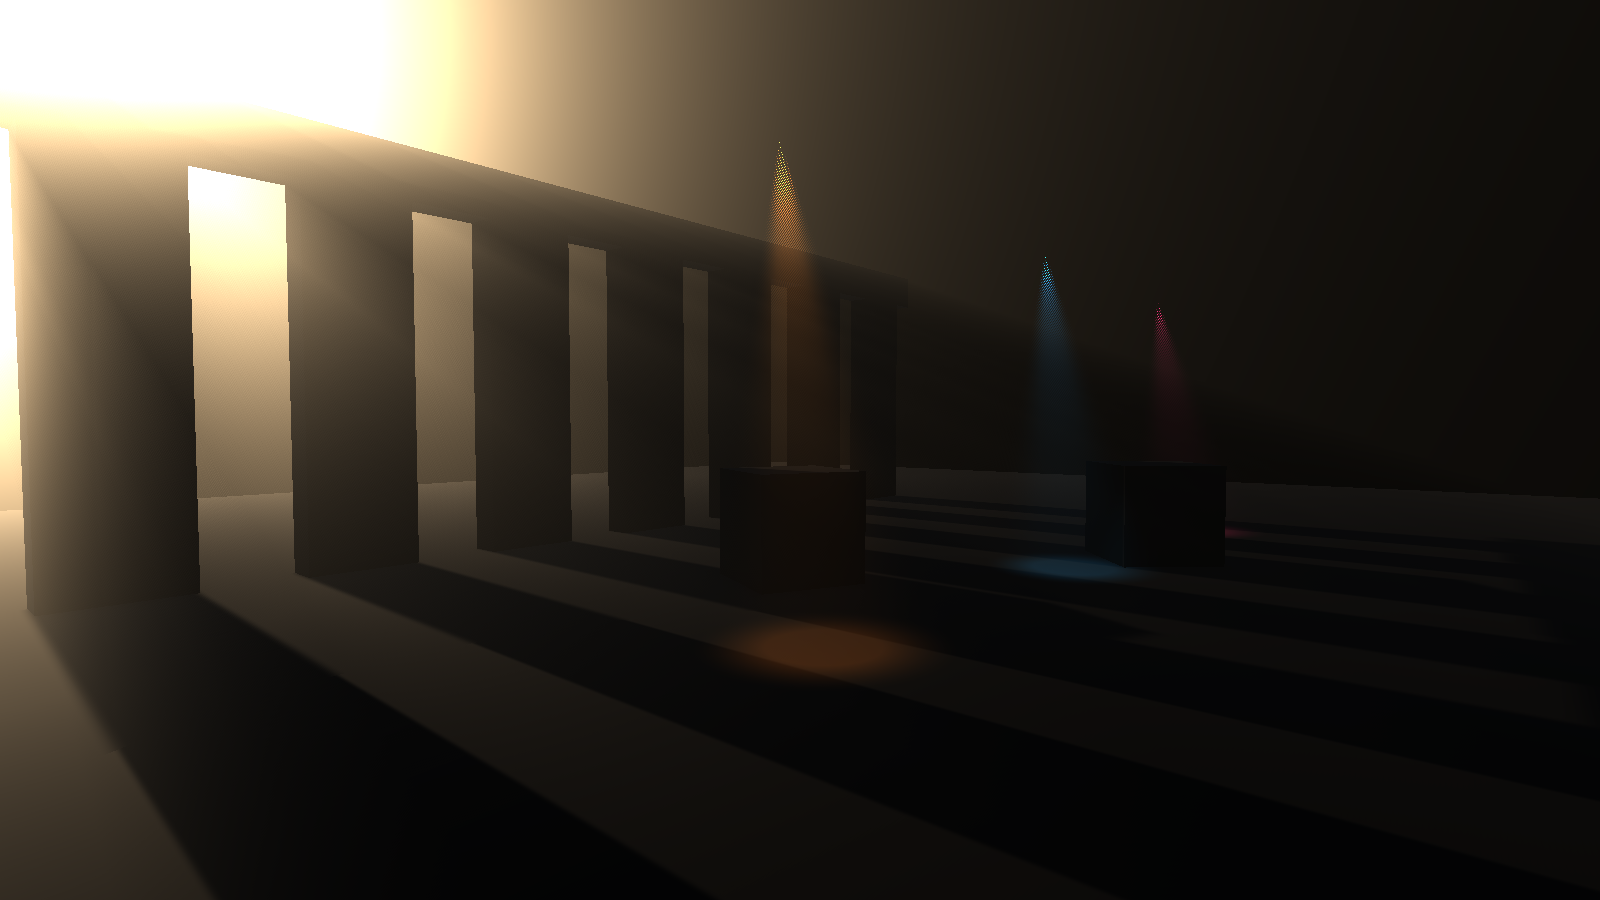
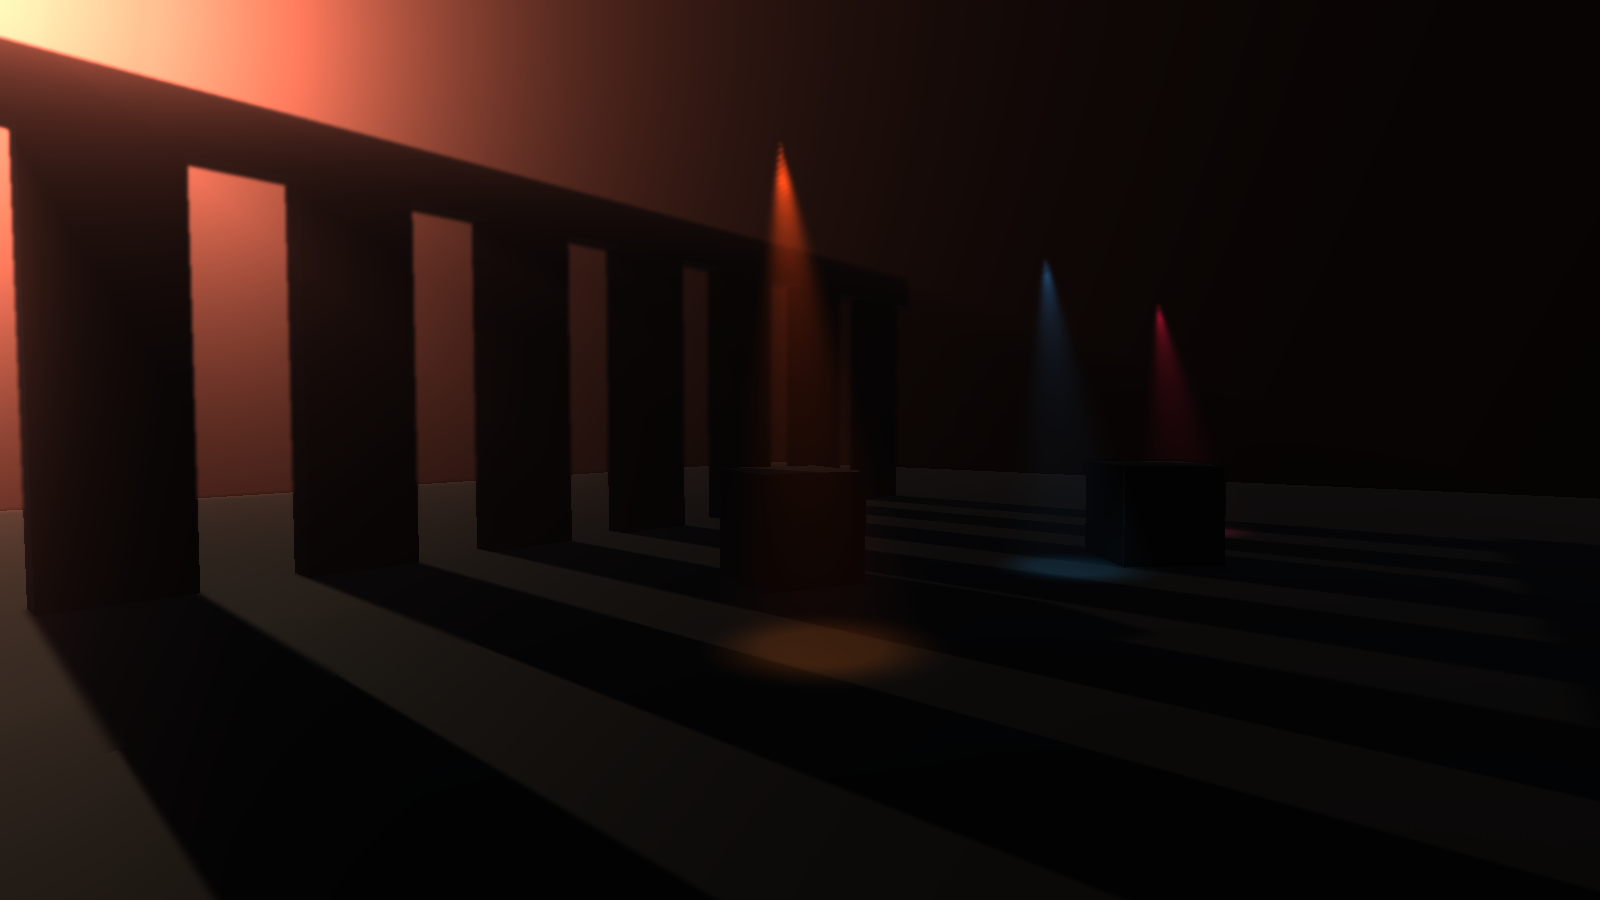
Add a blur pass so the raymarch dither is gone by default
The raymarch jitters each pixel's first sample to trade banding for noise,
but nothing downstream resolved that noise, so the interleaved gradient
pattern showed up directly - worst on spot cones, where a step can be wider
than the whole cone profile near the bulb.

Adds a separable gaussian over the volumetric buffer (9 taps folded into 5
bilinear fetches, H then V), exposed as Blur Iterations on the renderer
feature: 1 by default, 0 restores the previous cheaper behaviour. Widening
repeats the kernel rather than stretching its taps, which would undersample
the kernel and alias the dither into a coarser pattern.

Also samples _BlitTexture through SAMPLE_TEXTURE2D_X in the composite, which
would not have compiled under single-pass instanced stereo, and folds the
composite and blur blits into one helper.

diff --git a/Runtime/VolumetricLightingFeature.cs b/Runtime/VolumetricLightingFeature.cs
@@ -24,6 +24,11 @@ namespace VolumetricLighting
             [Tooltip("Lower = sharper but more expensive. Quarter is the recommended mobile default.")]
             public Resolution resolution = Resolution.Half;
 
+            [Tooltip("Separable gaussian passes over the volumetric buffer before compositing. " +
+                     "This is what removes the raymarch dither: 1 is enough in most scenes, 2 for very " +
+                     "bright spot cones. 0 skips the blur entirely - cheapest, and the dither comes back.")]
+            [Range(0, 3)] public int blurIterations = 1;
+
             [Tooltip("Auto-resolved if left empty.")]
             public Shader shader;
         }
@@ -88,6 +93,12 @@ namespace VolumetricLighting
             private static readonly int SpotPosID      = Shader.PropertyToID("_VL_SpotPos");
             private static readonly int SpotDirID      = Shader.PropertyToID("_VL_SpotDir");
             private static readonly int SpotColorID    = Shader.PropertyToID("_VL_SpotColor");
+            private static readonly int BlurTexelID    = Shader.PropertyToID("_VL_BlurTexel");
+
+            private const int PassRaymarch  = 0;
+            private const int PassComposite = 1;
+            private const int PassBlurH     = 2;
+            private const int PassBlurV     = 3;
 
             private const int MaxSpots = VolumetricSpotLight.MaxActive;
             private readonly Vector4[] _spotPos   = new Vector4[MaxSpots];
@@ -220,12 +231,11 @@ namespace VolumetricLighting
 
                 TextureHandle cameraColor = resourceData.cameraColor;
 
-                // Pass 1 : raymarch into off-screen RT.
+                // Raymarch into the off-screen RT.
                 using (var builder = renderGraph.AddRasterRenderPass<PassData>("Volumetric Raymarch", out var data))
                 {
-                    data.material   = _material;
-                    data.passIndex  = 0;
-                    data.volumetric = volTex;
+                    data.material  = _material;
+                    data.passIndex = PassRaymarch;
 
                     builder.SetRenderAttachment(volTex, 0, AccessFlags.Write);
                     builder.AllowPassCulling(false);
@@ -237,15 +247,40 @@ namespace VolumetricLighting
                     });
                 }
 
-                // Pass 2 : additive composite directly into camera color (no extra fullscreen copy).
-                using (var builder = renderGraph.AddRasterRenderPass<PassData>("Volumetric Composite", out var data))
+                // Separable gaussian: the only thing standing between the jittered raymarch
+                // and visible dither, since there is no temporal filter. Widening happens by
+                // repeating the fixed one-texel kernel - stretching its taps instead would
+                // undersample the kernel itself and alias the dither into a coarser pattern.
+                if (_settings.blurIterations > 0)
+                {
+                    _material.SetVector(BlurTexelID, new Vector4(1f / w, 1f / h, 0f, 0f));
+
+                    var blurDesc = volDesc;
+                    blurDesc.name = "_VL_VolumetricBlur";
+                    blurDesc.clearBuffer = false;
+                    TextureHandle blurTex = renderGraph.CreateTexture(blurDesc);
+
+                    for (int i = 0; i < _settings.blurIterations; i++)
+                    {
+                        AddBlitPass(renderGraph, "Volumetric Blur H", volTex,  blurTex, PassBlurH);
+                        AddBlitPass(renderGraph, "Volumetric Blur V", blurTex, volTex,  PassBlurV);
+                    }
+                }
+
+                // Additive composite directly into camera color (no extra fullscreen copy).
+                AddBlitPass(renderGraph, "Volumetric Composite", volTex, cameraColor, PassComposite);
+            }
+
+            private void AddBlitPass(RenderGraph renderGraph, string name, TextureHandle source, TextureHandle target, int passIndex)
+            {
+                using (var builder = renderGraph.AddRasterRenderPass<PassData>(name, out var data))
                 {
                     data.material   = _material;
-                    data.passIndex  = 1;
-                    data.volumetric = volTex;
+                    data.passIndex  = passIndex;
+                    data.volumetric = source;
 
-                    builder.UseTexture(volTex, AccessFlags.Read);
-                    builder.SetRenderAttachment(cameraColor, 0, AccessFlags.Write);
+                    builder.UseTexture(source, AccessFlags.Read);
+                    builder.SetRenderAttachment(target, 0, AccessFlags.Write);
                     builder.AllowPassCulling(false);
 
                     builder.SetRenderFunc((PassData d, RasterGraphContext ctx) =>

diff --git a/README.md b/README.md
@@ -10,12 +10,24 @@ through the air.
 
 <p align="center">
   <img src="Documentation/images/shafts-angle.png" width="49%" alt="Shafts seen from inside the colonnade">
-  <img src="Documentation/images/spot-lights.png" width="49%" alt="Volumetric spot lights at night, sun disabled">
+  <img src="Documentation/images/denoise-on.png" width="49%" alt="Volumetric spot lights at night, sun disabled">
 </p>
 
 <sub>The demo scene (`Samples/Demo.unity`) at 1600×900, Full resolution,
-64 raymarch steps. Right: the same scene with the sun turned off — only the
-three `VolumetricSpotLight` cones remain.</sub>
+128 raymarch steps, 1 blur iteration. Right: the same scene with the sun
+turned off — only the three `VolumetricSpotLight` cones remain.</sub>
+
+## Blur off / on
+
+<p align="center">
+  <img src="Documentation/images/denoise-off.png" width="49%" alt="Blur Iterations 0 - the raymarch jitter shows as dither">
+  <img src="Documentation/images/denoise-on.png" width="49%" alt="Blur Iterations 1 - smooth cones">
+</p>
+
+<sub>`Blur Iterations` 0 and 1 on the renderer feature. The raymarch offsets each
+pixel's samples by a noise pattern to trade banding for noise; without a filter
+that noise is what you see. One separable gaussian over the volumetric buffer
+resolves it — see [The dither, and how to get rid of it](#the-dither-and-how-to-get-rid-of-it).</sub>
 
 ## Same frame, effect off / on
 
@@ -68,8 +80,7 @@ renderer features live on the render pipeline asset rather than in the scene.
 | `Spot Cull Distance` | Spot lights further than this from the camera are skipped on the CPU. `0` = no culling. |
 
 The demo profile (`Samples/VolumetricLightingProfile.asset`) is a reasonable
-desktop starting point: intensity 1.5, 64 steps, 45 m, scattering 0.72,
-density 3.5, spot intensity 6.
+desktop starting point.
 
 ## Renderer feature settings
 
@@ -77,11 +88,20 @@ density 3.5, spot intensity 6.
 |---|---|
 | `Injection Point` | When the pass runs. Default `BeforeRenderingTransparents`, so transparents composite over the fog. |
 | `Resolution` | Raymarch buffer size: `Full`, `Half`, `Quarter`. **Quarter** is the mobile default, `Full` for stills and desktop. |
+| `Blur Iterations` | Separable gaussian passes over the volumetric buffer before compositing. **1** removes the raymarch dither and is the default; **2** for very bright spot cones; **0** skips the blur entirely (two passes cheaper, and the dither comes back). |
 | `Shader` | Auto-resolved to `Hidden/VolumetricLighting`; leave it empty. |
+
+### Presets that work
+
+| | Resolution | Blur Iterations | Steps (Volume) |
+|---|---|---|---|
+| **Mobile** | Quarter | 1 | 16–24 |
+| **Balanced** | Half | 1 | 32–48 |
+| **PC / stills** | Full | 1–2 | 64–128 |
 
 ## How it works
 
-Two passes, recorded on the Render Graph:
+Recorded on the Render Graph:
 
 1. **Raymarch** into an off-screen `R16G16B16A16_SFloat` target at the chosen
    resolution. For each pixel the scene depth gives the ray's end point (the
@@ -91,7 +111,9 @@ Two passes, recorded on the Render Graph:
    screen-space shadow texture, which is meaningless for a point floating in
    mid-air — and every registered spot light is accumulated analytically.
    The loop early-outs once transmittance drops below 1%.
-2. **Composite** the result into camera colour with hardware additive
+2. **Blur**, `Blur Iterations` times: a 9-tap gaussian folded into 5 bilinear
+   fetches, horizontal then vertical, over the volumetric buffer only.
+3. **Composite** the result into camera colour with hardware additive
    blending (`Blend One One`) — no extra fullscreen copy.
 
 Spot lights are packed CPU-side into three `Vector4` arrays (position +
@@ -104,6 +126,40 @@ The pass sets `requiresIntermediateTexture`, which forces URP to allocate an
 intermediate colour target. Without it URP renders straight to the back
 buffer in simple frames and the composite — which reads a texture while
 writing camera colour — silently does nothing.
+
+## The dither, and how to get rid of it
+
+Marching a fixed number of steps through a light shaft quantises it into
+bands. The standard cure is to offset each pixel's first sample by a noise
+pattern, which is what the raymarch does — that trades the bands for
+per-pixel noise, on the assumption that something downstream will resolve
+the noise. With nothing downstream, you see the noise directly, and because
+the pattern is interleaved gradient noise it reads as a regular dither
+rather than as grain.
+
+It shows up **where a step is too coarse for how fast the light changes over
+it**, which is why it lands on spot cones and not on broad sun shafts: close
+to the bulb, the whole cone profile can be narrower than a single step.
+
+Two knobs, and they work together:
+
+- **`Blur Iterations` (renderer feature)** — one separable gaussian over the
+  volumetric buffer. This is the cheap fix and it is on by default. Because
+  the buffer is off-screen and often at half or quarter resolution, the blur
+  is nearly free, and it only ever touches the fog: geometry, edges and the
+  rest of the frame are untouched.
+- **`Steps` (Volume)** — the actual fix, since the dither is an undersampling
+  artifact. Raising `Steps`, or lowering `Max Distance` so the same steps
+  cover less ground, attacks the cause rather than the symptom.
+
+At `Blur Iterations` 1 the demo scene is clean at 64 steps everywhere except
+the last metre before each bulb; at 128 steps it is clean everywhere. On
+mobile, Quarter resolution with 1 iteration and 16–24 steps stays smooth
+because the low-resolution buffer is itself a filter.
+
+Widening happens by **repeating** the kernel, not by stretching its taps:
+spreading a 5-tap gaussian over more texels undersamples the kernel and
+aliases the dither into a coarser, more visible pattern.
 
 ## Mobile guidance
 
@@ -121,9 +177,10 @@ writing camera colour — silently does nothing.
 - **8 active spot lights** maximum. Raise `VolumetricSpotLight.MaxActive` and
   `VL_MAX_SPOTS` in the shader together if you need more.
 - **Point lights are not supported** — directional and spot only.
-- The raymarch jitter is spatial only (no temporal reprojection, no bilateral
-  upsample), so a bright narrow cone close to its own bulb shows visible
-  dither. More `Steps` and a shorter `Max Distance` are the current fix.
+- **No temporal reprojection and no bilateral upsample.** The blur is a plain
+  gaussian, so at Half or Quarter resolution the fog can bleed a pixel or two
+  past a hard geometry edge, and very bright thin cones want `Blur Iterations`
+  2 or a higher `Steps` rather than the default.
 
 ## License
 
